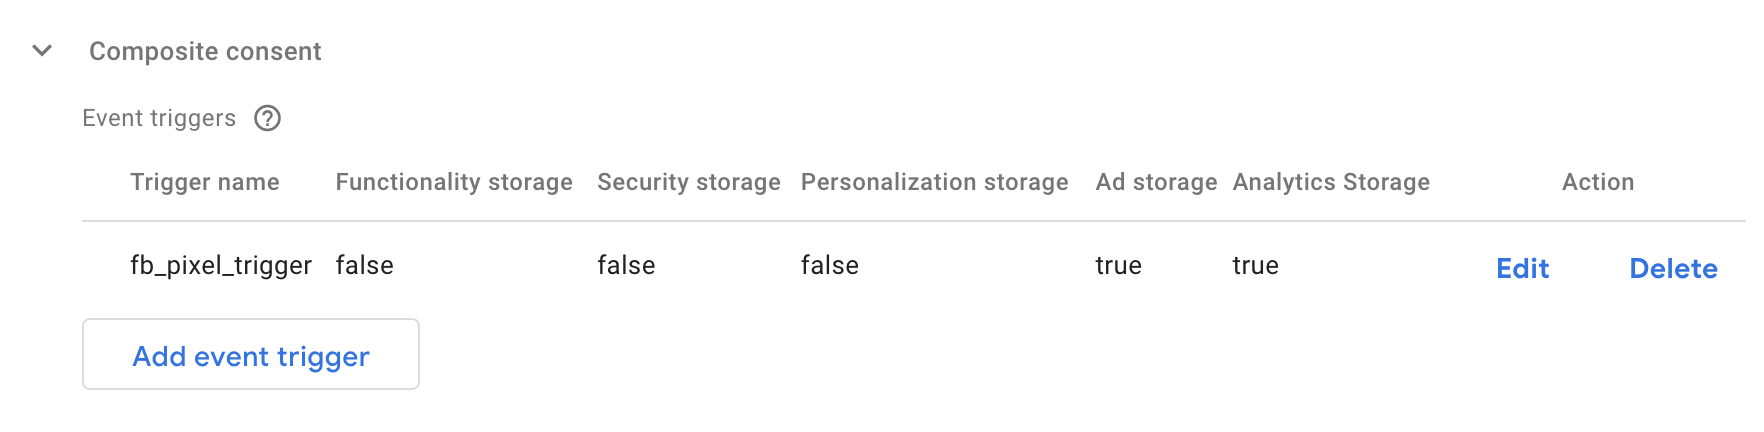
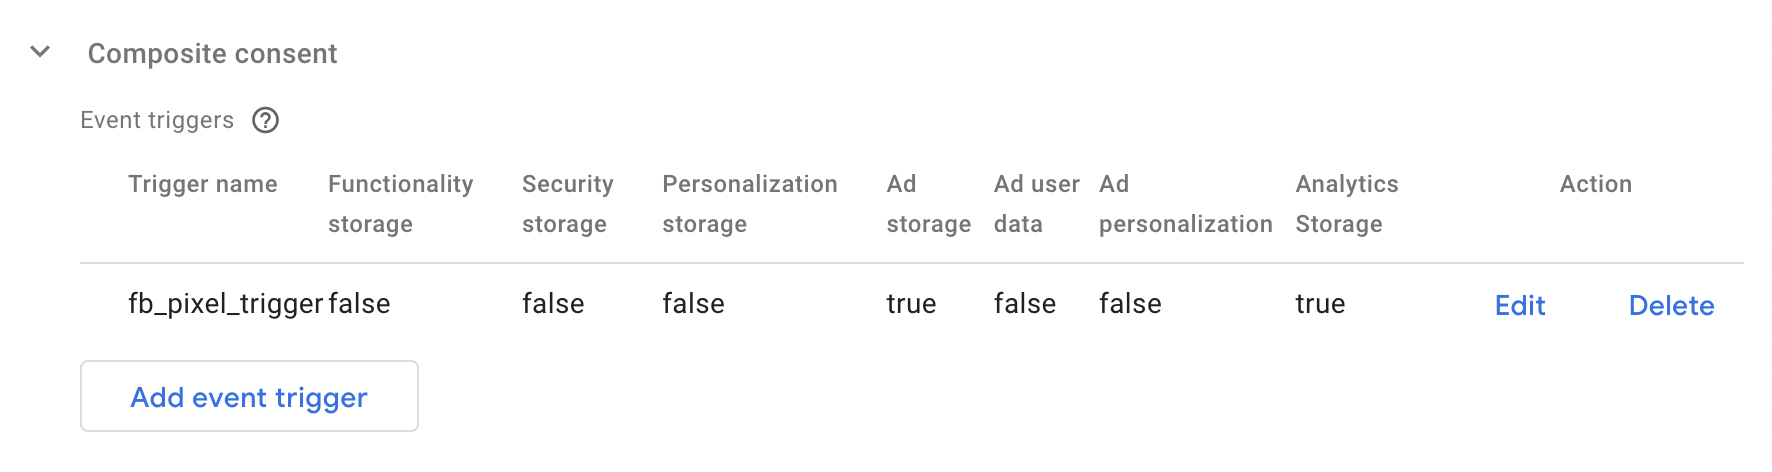
Updated README and added `Migration from v0.4 to v0.5` guide

diff --git a/README.md b/README.md
@@ -22,6 +22,7 @@ An extended integration of [orestbida/cookieconsent](https://github.com/orestbid
 * [Integration with CMP application](#integration-with-cmp-application)
 * [How the GTM integration works](#how-the-gtm-integration-works)
 * [How to update already published container](#how-to-update-already-published-containers)
+  * [Migration from v0.4 to v0.5](#migration-from-v04-to-v05)
 * [Development](#development)
 * [License](#license)
 
@@ -89,24 +90,29 @@ The following strategies are implemented:
 
 ### Storage options
 
-Five types of storage are available:
+Seven types of storage are available:
 
 - Functionality storage
 - Security storage
 - Personalization storage
 - Ad storage
+- Ad user data
+- Ad personalization
 - Analytics storage
 
 Each storage defines the name of a trigger that will be invoked if the user provides consent. It is not necessary to use or display each storage in the widget. Also, the consent for the storage can be synchronized with the consent of another storage.
 
-| Field                                     | Description                                                                                                                                                                                                                  |
-|-------------------------------------------|------------------------------------------------------------------------------------------------------------------------------------------------------------------------------------------------------------------------------|
-| Enabled by default                        | A storage has `granted` consent by default if the option is checked. Triggers will be invoked as soon as possible.                                                                                                           |
-| Display in the widget                     | A storage will be displayed inside the settings modal if the option is checked.                                                                                                                                              |
-| Readonly                                  | A toggle button for storage inside the settings modal will be disabled if the option is checked. Commonly used for functionality storage. The option is available only if the option `Display in the widget` is checked.     |
-| Synchronize consent with                  | The consent can be synchronized with another storage. The option is available only if the option `Display in the widget` is not checked.                                                                                     |
-| Show the modal again if storage is denied | The settings modal will be opened again after the specified number of days if the storage is denied. The option is available only if the option `Display in the widget` is not checked.                                      |
-| Event trigger name                        | The name of an event trigger that will be invoked on `granted` consent with storage. The name may not be unique for each storage (unique triggers are invoked only). No trigger is invoked if the option has an empty value. |
+| Field                                                        | Description                                                                                                                                                                                                                                        |
+|--------------------------------------------------------------|----------------------------------------------------------------------------------------------------------------------------------------------------------------------------------------------------------------------------------------------------|
+| Visibility and default state                                 | Defines whether the storage should be visible in the widget and what its default value is.                                                                                                                                                         |
+| &nbsp;&nbsp;&nbsp;- Visible, Enabled by default              | Storage is visible in the widget and is enabled by default.                                                                                                                                                                                        |
+| &nbsp;&nbsp;&nbsp;- Visible & Readonly, Enabled by default   | Storage is visible in the widget, it is always enabled and cannot be disabled (usually used for `Functionality storage`).                                                                                                                          |
+| &nbsp;&nbsp;&nbsp;- Visible, Disabled by default             | Storage is visible in the widget and is disabled by default.                                                                                                                                                                                       |
+| &nbsp;&nbsp;&nbsp;- Hidden, Synchronized                     | Storage is not visible in the widget and the consent is synchronized with another storage.                                                                                                                                                         |
+| &nbsp;&nbsp;&nbsp;- Hidden, Disabled always                  | Storage is not visible in the widget and is always disabled. Use for storages that are not used by the application at all.                                                                                                                         |
+| Synchronize consent with                                     | The consent can be synchronized with another storage. The option is available only if the option `Visibility and default state` is set to `Hidden, Synchronized`.                                                                                  |
+| If the storage is denied show the modal again after `x` days | The settings modal will be opened again after the specified number of days if the storage is denied. The option is available only if the option `Display in the widget` is set to `Visible, Enabled by default` or `Visible, Disabled by default`. |
+| Event trigger name                                           | The name of an event trigger that will be invoked on `granted` consent with storage. The name may not be unique for each storage (unique triggers are invoked only). No trigger is invoked if the option has an empty value.                       |
 
 ### Event triggers based on composite consent
 
@@ -375,6 +381,10 @@ If you want to update to the newer version please firstly look into [releases](h
 For update, you must reimport the Template in your GTM in the same way how you imported it for the first time. The template will be updated but existing configurations inside tags will be kept. Of course, if the Template wasn't changed between releases then you can skip this step.
 
 Then open the associated tag and update the value of the field `Package version`.
+
+### Migration from v0.4 to v0.5
+
+For more detailed information on migrating from `0.4.x` to `0.5.x`, please continue to the page [Migration from v0.4 to v0.5](docs/migration-from-0.4-to-0.5.md).
 
 ## Development
 

diff --git a/docs/migration-from-0.4-to-0.5.md b/docs/migration-from-0.4-to-0.5.md
@@ -1,0 +1,35 @@
+<div align="center" style="text-align: center; margin-bottom: 50px">
+<img src="images/logo.svg" alt="Cookie Consent Logo" align="center" width="250">
+<h1 align="center">Migration from v0.4 to v0.5</h1>
+</div>
+
+## How does version v0.5 differ
+
+Version `v0.5.0` adds new `ad_user_data` and `ad_personalization` storages for integration with [Google Consent Mode v2](https://developers.google.com/tag-platform/security/guides/consent?consentmode=advanced#upgrade-consent-v2).
+For this reason, the configuration for these new storages had to be added to the GTM template.
+
+However, our template has outgrown the limit of 100 fields with this, which is not documented anywhere.
+Because of this, we had to modify the configuration of the storages in the template.
+
+The following changes have been made:
+
+- The options `"Enabled by default"`, `"Display in the widget"` and `"Readonly"` have been merged into a single dropdown `"Visibility and default state"`.
+- The checkbox `"Show the modal again if storage is denied"` has been removed and only the input `"If the storage is denied show the modal again after X days"` remains. If you want to disable the feature, set the value to `0`.
+
+<img src="images/storage-configuration-migration.png" alt="Difference between the old configuration the the new one" width="600">
+
+## How to migrate
+
+Remember, or ideally note somewhere, how you have configured all storages ("Functionality storage", "Security storage" etc.), values for deleted fields will not be preserved when updating the template.
+
+After updating the GTM template, reconfigure storages. The configuration combinations are shown in the table below.
+
+| Previous storage options                                                                                  | New option                                                                                      |
+|-----------------------------------------------------------------------------------------------------------|-------------------------------------------------------------------------------------------------|
+| Enabled by default = `true`<br>Display in the widget = `true`<br>Readonly = `false`                       | Visibility and default state = `Visible, Enabled by default`                                    |
+| Enabled by default = `true`<br>Display in the widget = `true`<br>Readonly = `true`                        | Visibility and default state = `Visible & Readonly, Enabled by default`                         |
+| Enabled by default = `false`<br>Display in the widget = `true`                                            | Visibility and default state = `Visible, Disabled by default`                                   |
+| Enabled by default = `false`<br>Display in the widget = `false`<br>Synchronize consent with = `<storage>` | Visibility and default state = `Hidden, Synchronized`<br>Synchronize consent with = `<storage>` |
+| Enabled by default = `false`<br>Display in the widget = `false`<br>Synchronize consent with = `None`      | Visibility and default state = `Hidden, Disabled always`                                        |
+
+Of course, don't forget to update the field `"Package version"` to `0.5.0` (or higher, if already available).
